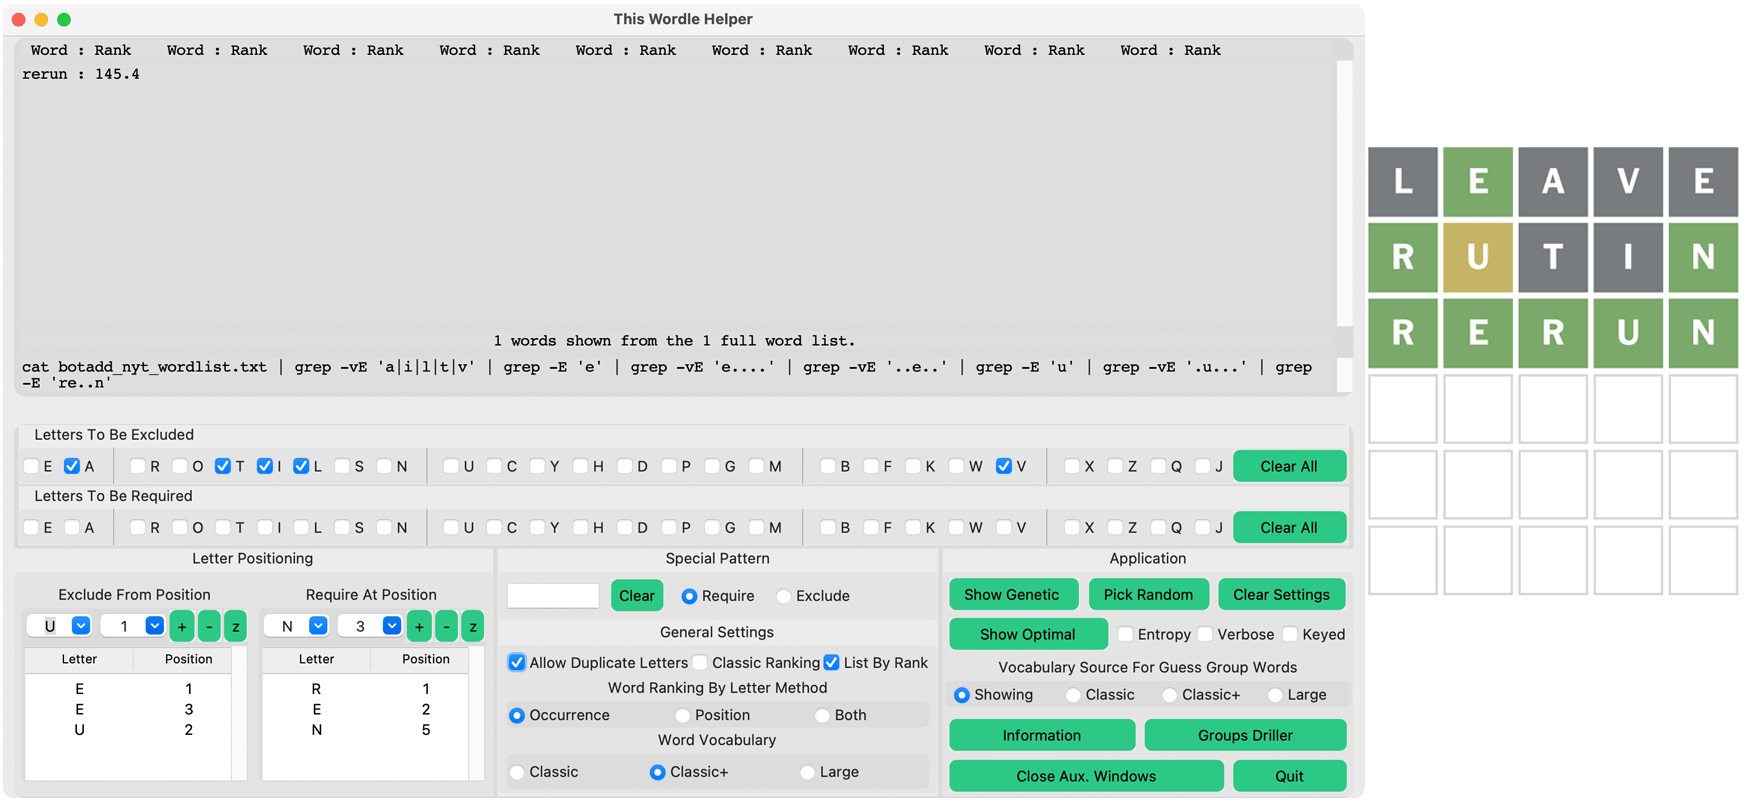
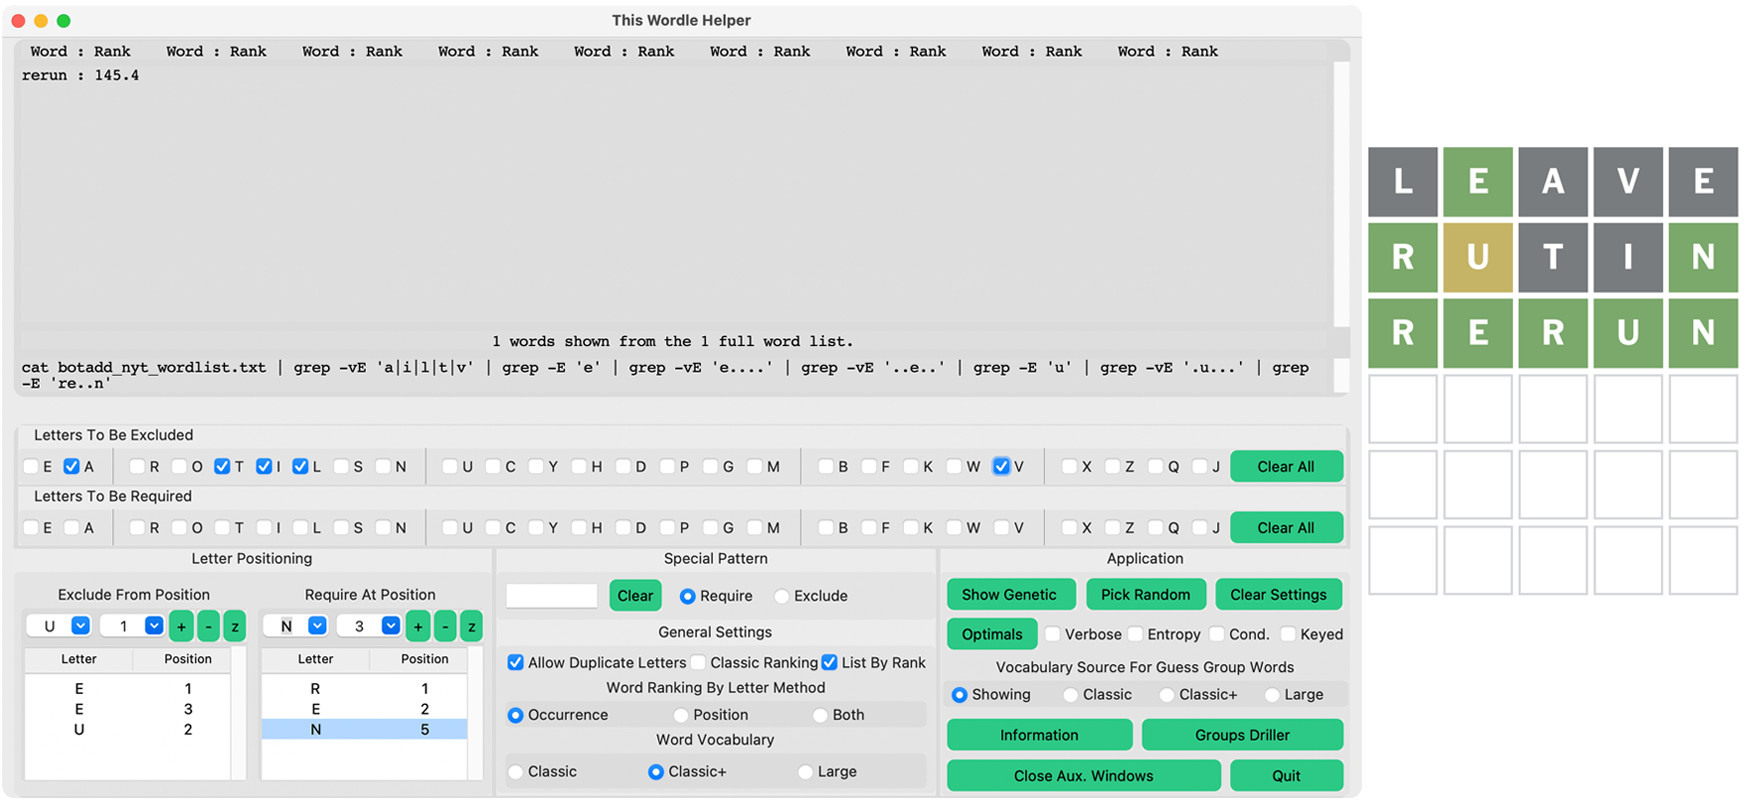
Added condensed mode to main window

diff --git a/pywt.py b/pywt.py
@@ -23,6 +23,7 @@ import tkinter.ttk as ttk  # assigns tkinter.ttk stuff to its own ttk
 # namespace so that tk is preserved
 from tkinter import messagebox
 import customtkinter as ctk
+
 import helpers
 import groupdrilling
 
@@ -186,6 +187,7 @@ class Pywordlemainwindow(ctk.CTk):
         self.ordr_by_rank = tk.BooleanVar(value=True)
         self.verbose_grps = tk.BooleanVar(value=False)
         self.ent_grps = tk.BooleanVar(value=False)
+        self.cond_grps = tk.BooleanVar(value=False)
         self.keyed_verbose_grps = tk.BooleanVar(value=False)
         self.vocab_var = tk.IntVar(value=1)
         self.status = tk.StringVar()
@@ -348,7 +350,7 @@ class Pywordlemainwindow(ctk.CTk):
                         optimal_group_guesses = helpers.best_groups_guess_dict(word_list,
                                                                                self.verbose_grps.get(),
                                                                                self.ent_grps.get(),
-                                                                               False,
+                                                                               self.cond_grps.get(),
                                                                                self.keyed_verbose_grps.get(),
                                                                                context)
 
@@ -364,7 +366,7 @@ class Pywordlemainwindow(ctk.CTk):
                         optimal_group_guesses = helpers.extended_best_groups_guess_dict(word_list,
                                                                                         self.verbose_grps.get(),
                                                                                         self.ent_grps.get(),
-                                                                                        False,
+                                                                                        self.cond_grps.get(),
                                                                                         self.keyed_verbose_grps.get(),
                                                                                         all_targets,
                                                                                         msg1,
@@ -381,7 +383,7 @@ class Pywordlemainwindow(ctk.CTk):
                         optimal_group_guesses = helpers.extended_best_groups_guess_dict(word_list,
                                                                                         self.verbose_grps.get(),
                                                                                         self.ent_grps.get(),
-                                                                                        False,
+                                                                                        self.cond_grps.get(),
                                                                                         self.keyed_verbose_grps.get(),
                                                                                         all_targets,
                                                                                         msg1,
@@ -398,7 +400,7 @@ class Pywordlemainwindow(ctk.CTk):
                         optimal_group_guesses = helpers.extended_best_groups_guess_dict(word_list,
                                                                                         self.verbose_grps.get(),
                                                                                         self.ent_grps.get(),
-                                                                                        False,
+                                                                                        self.cond_grps.get(),
                                                                                         self.keyed_verbose_grps.get(),
                                                                                         all_targets,
                                                                                         msg1,
@@ -582,6 +584,10 @@ class Pywordlemainwindow(ctk.CTk):
             do_grep()
             self.title("This Wordle Helper")
             self.sel_grpoptimal = False
+
+        def cond_grps_chk() -> None:
+            if self.cond_grps.get():
+                self.verbose_grps.set(True)
 
         # Clears and fills a treeview with dictionary contents
         # Results are sorted by the dictionary keys.
@@ -1477,17 +1483,11 @@ class Pywordlemainwindow(ctk.CTk):
         self.grp_frame.pack(side=tk.TOP, padx=0, pady=3, fill=tk.X)
 
         self.bt_groups = ctk.CTkButton(self.grp_frame,
-                                       text="Show Optimal",
+                                       text="Optimals",
                                        text_color="black",
+                                       width=80,
                                        command=pick_optimals)
         self.bt_groups.pack(side=tk.LEFT, padx=4, pady=0, fill=tk.X)
-        self.chk_ent_disp = ttk.Checkbutton(self.grp_frame,
-                                            text="Entropy",
-                                            variable=self.ent_grps,
-                                            onvalue=True,
-                                            offvalue=False
-                                            )
-        self.chk_ent_disp.pack(side=tk.LEFT, padx=2, pady=0)
         self.chk_grp_disp = ttk.Checkbutton(self.grp_frame,
                                             text="Verbose",
                                             variable=self.verbose_grps,
@@ -1495,6 +1495,21 @@ class Pywordlemainwindow(ctk.CTk):
                                             offvalue=False
                                             )
         self.chk_grp_disp.pack(side=tk.LEFT, padx=0, pady=0)
+        self.chk_ent_disp = ttk.Checkbutton(self.grp_frame,
+                                            text="Entropy",
+                                            variable=self.ent_grps,
+                                            onvalue=True,
+                                            offvalue=False
+                                            )
+        self.chk_ent_disp.pack(side=tk.LEFT, padx=2, pady=0)
+        self.chk_cond_disp = ttk.Checkbutton(self.grp_frame,
+                                            text="Cond.",
+                                            variable=self.cond_grps,
+                                            onvalue=True,
+                                            offvalue=False,
+                                            command = cond_grps_chk
+                                            )
+        self.chk_cond_disp.pack(side=tk.LEFT, padx=2, pady=0)
         self.chk_key_disp = ttk.Checkbutton(self.grp_frame,
                                             text="Keyed",
                                             variable=self.keyed_verbose_grps,

diff --git a/README.md b/README.md
@@ -87,14 +87,14 @@
 * These ranking method are of different scales. Do not compare their ranking for any particular word.
 * Word rank represents relative occurrence probability; however, any word matching the filter could be the Wordle word regardless of its rank.
 
-### Show Optimal
+### Optimals
 
-* **Show Optimal** identifies from the words in the current words **Showing**, or in one of the vocabulary sources: **Classic**, **Classic+** or **Large**, that when used as a guess against the current **Words Showing** word list result in likely less remaining possible solutions.
+* **Optimals** identifies from the words in the current words **Showing**, or in one of the vocabulary sources: **Classic**, **Classic+** or **Large**, that when used as a guess against the current **Words Showing** word list result in likely less remaining possible solutions.
 * Any word from the **Words Showing** list used as a guess has a chance of being the solution. That chance is related to the number of **Words Showing**. When the number of **Words Showing** is three or more words the best guess becomes more likely a word that is not the solution. The solution being one of three words might be solved in two steps by first guessing a word not of the three that eliminates two words no matter which of the three words is the solution.
-* For any guess the **Words Showing** change relates to the unique ways that guess word is wrong for each of the **Words Showing**. Some guess words leave fewer remaining words to choose from. It is possible for a word to leave only a one word remaining for every which way that word was wrong. You would solve the Wordle in your next guess under that condition. Optimal guess words might be in the **Words Showing** but are more likely selected from the other vocabulary sources. **Show Optimal** identifies those words.
-* Groups are words that share a unique clue pattern. Thus, a group is an abstract that is both the clue pattern and the group of words. A separate window opens to report all the group pattern information when the **Verbose Report** checkbox is checked.
+* For any guess the **Words Showing** change relates to the unique ways that guess word is wrong for each of the **Words Showing**. Some guess words leave fewer remaining words to choose from. It is possible for a word to leave only a one word remaining for every which way that word was wrong. You would solve the Wordle in your next guess under that condition. Optimal guess words might be in the **Words Showing** but are more likely selected from the other vocabulary sources. **Optimals** identifies those words.
+* Groups are words that share a unique clue pattern. Thus, a group is an abstract that is both the clue pattern and the group of words. A separate window opens to report all the group pattern information when the **Verbose** checkbox is checked.
 * Assuming the various settings have not excluded the solution from the current words showing and considering the solution is a random list member, then dividing the list into many small choice groups will on average minimize the number of guess required to narrow down to the solution.
-* Groups identified with **Show Optimal** or **Groups Driller**, in verbose mode, can be used to calculate the expected number of steps associated with any guess word. See [EXPECTEDSTEPS_Readme.md](EXPECTEDSTEPS_Readme.md) for more information. Calculating the expected number of steps can augment understanding Wordle dynamics, but it is not necessary for selecting words.
+* Groups identified with **Optimals** or **Groups Driller**, in verbose mode, can be used to calculate the expected number of steps associated with any guess word. See [EXPECTEDSTEPS_Readme.md](EXPECTEDSTEPS_Readme.md) for more information. Calculating the expected number of steps can augment understanding Wordle dynamics, but it is not necessary for selecting words.
 * The play word having the most **Entropy** is the best Wordle play. **Entropy** calculated by this **Wordle Helper** assumes assigns equal probability to every word in the possible solutions list. The NYT WordleBot does not treat all possible solutions as equal for its **entropy** word scores. Entropy comparisons should be made within the same context. For example compare the **Wordle Helper** entropy difference between two words to the NYT WordleBot entropy difference between the same two words.
 * The play word yielding the largest group quantity is not necessarily the play having the least expected number of steps to solve. However, it very often does have the least expected number of steps to solve.
 * The **min-max** value is the minimum size of the maximum group sizes in guess words identified to yield the largest number of word groups. Many guess words can yield the same largest number of word group. But the word group sizes can vary. One wants to know the smallest maximum group size in the groups analysis summary. The **min-max** value also coordinates with the summarized **p2** value.
@@ -107,6 +107,12 @@
 * The **Verbose Report** **Find** button scrolls the report window to the last found search text instance, which will be highlighted. Include **'for: '** in the search text when searching for a guess word's pattern. Include **'qty: '**' when searching for guesses having the same group quantities. To avoid finding to many text instances the search text must have five or more characters, beware however; it is possible to hopelessly bog down the search when trying to highlight commonly found text. Verbose reports using the **Large** vocabulary can be 400,000 text lines. Verbose report text can be copy-pasted into text editors.
 
 !['Verbose Window Top Image'](InfoImages/PYWTVerboseGrpsTop.png)
+
+* The **Cond.** checkbox results in the verbose output to be a **condensed** format that lists the guess words in order of highest information entropy first. Here is an example:
+
+!['Condensed Result Window Image'](InfoImages/PYWTCondensedView.png)
+
+* The **Keyed** checkbox results in each of the verbose data output lines keyed to the guess word to which that data applies. This format can be useful for copying and pasting the data to another application for further processing while maintaining to which guess word the data applies.
 
 * The concept of **Wordle Groups** is explained in an allegory here: [Groups Allegory](/groupsallegory/README.md)
   
@@ -172,9 +178,13 @@ The Wordle helper shows five-letter words from which you can select for playing 
 
 * **Pick Random** highlights a random word in the current showing word list. There is a point when narrowing down the list of possible words where the higher ranking words are biased against words containing low ranking letters. Any one of the words shown could be the Wordle word. This feature is intended for use when the list has become small where you can surmise the correct word would be a random selection.
 
-* **Show Optimal** highlights the word or words that result in the lowest average remaining words when that word is used as a guess. The score is the average of the guess's groups sizes. This analysis is performed on the current words **Showing** or the entire **Classic**, **Classic+** or **Large** vocabularies. The group finding process is lengthy and may take extended time to finish. The group optimal guess word is likely to result in remaining smaller word groups, thus increasing chances to find the solution in fewer guesses. Optimal group analysis should be performed on the total selection list that contains multiple letters because the analysis is for selecting the solution versus guessing for letter discovery. A separate window opens to report all the group pattern information during the analysis when the **Verbose Report** checkbox is checked. Group optimal words identified from guess word sources other than the showing words cannot be highlighted if the word is not in the shown list. Run the process in verbose mode to find out the words. When the candidate guess is of the list there will be some chance the candidate guess is the solution. The solution will be the guess after the candidate guess when otherwise.
+* **Optimals** highlights the word or words that result in the lowest average remaining words when that word is used as a guess. The score is the average of the guess's groups sizes. This analysis is performed on the current words **Showing** or the entire **Classic**, **Classic+** or **Large** vocabularies. The group finding process is lengthy and may take extended time to finish. The group optimal guess word is likely to result in remaining smaller word groups, thus increasing chances to find the solution in fewer guesses. Optimal group analysis should be performed on the total selection list that contains multiple letters because the analysis is for selecting the solution versus guessing for letter discovery. A separate window opens to report all the group pattern information during the analysis when the **Verbose** checkbox is checked. Group optimal words identified from guess word sources other than the showing words cannot be highlighted if the word is not in the shown list. Run the process in verbose mode to find out the words. When the candidate guess is of the list there will be some chance the candidate guess is the solution. The solution will be the guess after the candidate guess when otherwise.
 
-* **Entropy** filters the optimal guess words to those that contain the highest gained entropy information. Many guess words can result in the same number of possible solution word groups, but the number of words in those groups can vary. There can be a technical information difference due to the word group sizes. The information can be quantified as entropy.
+* **Entropy** filters the optimal guess words to those that contain the highest gained entropy information bits (base 2). Many guess words can result in the same number of possible solution word groups, but the number of words in those groups can vary. There can be a technical information difference due to the word group sizes. The information can be quantified as entropy.
+
+* **Cond.** The verbose output will be a **condensed** format that lists the guess words in order of highest information entropy first.
+
+* **Keyed** Results in each of the verbose data output lines keyed to the guess word to which that data applies. This format can be useful for copying and pasting the data to another application for further processing while maintaining to which guess word the data applies.
 
 #### Word Vocabulary
 
